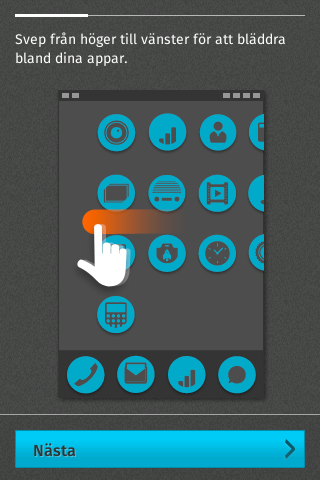
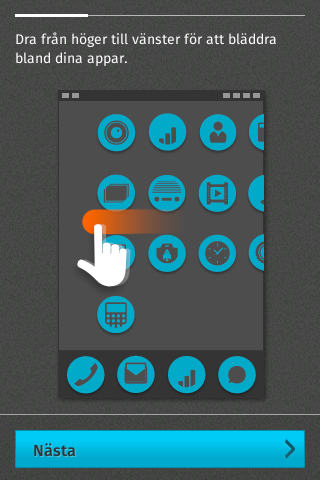
Update (sv-SE updated by hg repo)

Changed region(s): [[0.0312, 0.0625, 0.9062, 0.0938]]

diff --git a/apps_communications_ftu_sv-SE.html b/apps_communications_ftu_sv-SE.html
@@ -13,7 +13,7 @@
           <th>Old</th>
           <th>Diff</th>
         </tr>
-        <tr class='ok'>
+        <tr class='changed'>
           <td class='id'>geolocation</td>
           <td class='new'>
             <a href='screenshots/sv-SE/apps/communications/ftu/geolocation.jpeg'>
@@ -26,6 +26,9 @@
             </a>
           </td>
           <td class='diff'>
+            <a href='screenshots/sv-SE/apps/communications/ftu/geolocation.diff.jpeg'>
+              <img src='screenshots/sv-SE/apps/communications/ftu/geolocation.diff.jpeg'/>
+            </a>
           </td>
         </tr>
         <tr class='ok'>
@@ -223,7 +226,7 @@
           <td class='diff'>
           </td>
         </tr>
-        <tr class='ok'>
+        <tr class='changed'>
           <td class='id'>step3</td>
           <td class='new'>
             <a href='screenshots/sv-SE/apps/communications/ftu/step3.jpeg'>
@@ -236,6 +239,9 @@
             </a>
           </td>
           <td class='diff'>
+            <a href='screenshots/sv-SE/apps/communications/ftu/step3.diff.jpeg'>
+              <img src='screenshots/sv-SE/apps/communications/ftu/step3.diff.jpeg'/>
+            </a>
           </td>
         </tr>
         <tr class='ok'>
@@ -253,7 +259,7 @@
           <td class='diff'>
           </td>
         </tr>
-        <tr class='ok'>
+        <tr class='changed'>
           <td class='id'>step1</td>
           <td class='new'>
             <a href='screenshots/sv-SE/apps/communications/ftu/step1.jpeg'>
@@ -266,6 +272,9 @@
             </a>
           </td>
           <td class='diff'>
+            <a href='screenshots/sv-SE/apps/communications/ftu/step1.diff.jpeg'>
+              <img src='screenshots/sv-SE/apps/communications/ftu/step1.diff.jpeg'/>
+            </a>
           </td>
         </tr>
         <tr class='ok'>
@@ -313,7 +322,7 @@
           <td class='diff'>
           </td>
         </tr>
-        <tr class='ok'>
+        <tr class='changed'>
           <td class='id'>import_contacts</td>
           <td class='new'>
             <a href='screenshots/sv-SE/apps/communications/ftu/import_contacts.jpeg'>
@@ -326,6 +335,9 @@
             </a>
           </td>
           <td class='diff'>
+            <a href='screenshots/sv-SE/apps/communications/ftu/import_contacts.diff.jpeg'>
+              <img src='screenshots/sv-SE/apps/communications/ftu/import_contacts.diff.jpeg'/>
+            </a>
           </td>
         </tr>
         <tr class='ok'>

diff --git a/index.html b/index.html
@@ -49,7 +49,7 @@
           <td class='changed'><a href=apps_communications_ftu_fy-NL.html>CHANGED</a></td>
           <td class='changed'><a href=apps_communications_ftu_es.html>CHANGED</a></td>
           <td class='ok'><a href=apps_communications_ftu_da.html>OK</a></td>
-          <td class='ok'><a href=apps_communications_ftu_sv-SE.html>OK</a></td>
+          <td class='changed'><a href=apps_communications_ftu_sv-SE.html>CHANGED</a></td>
           <td class='changed'><a href=apps_communications_ftu_pl.html>CHANGED</a></td>
           <td class='ok'><a href=apps_communications_ftu_sk.html>OK</a></td>
           <td class='changed'><a href=apps_communications_ftu_hu.html>CHANGED</a></td>
